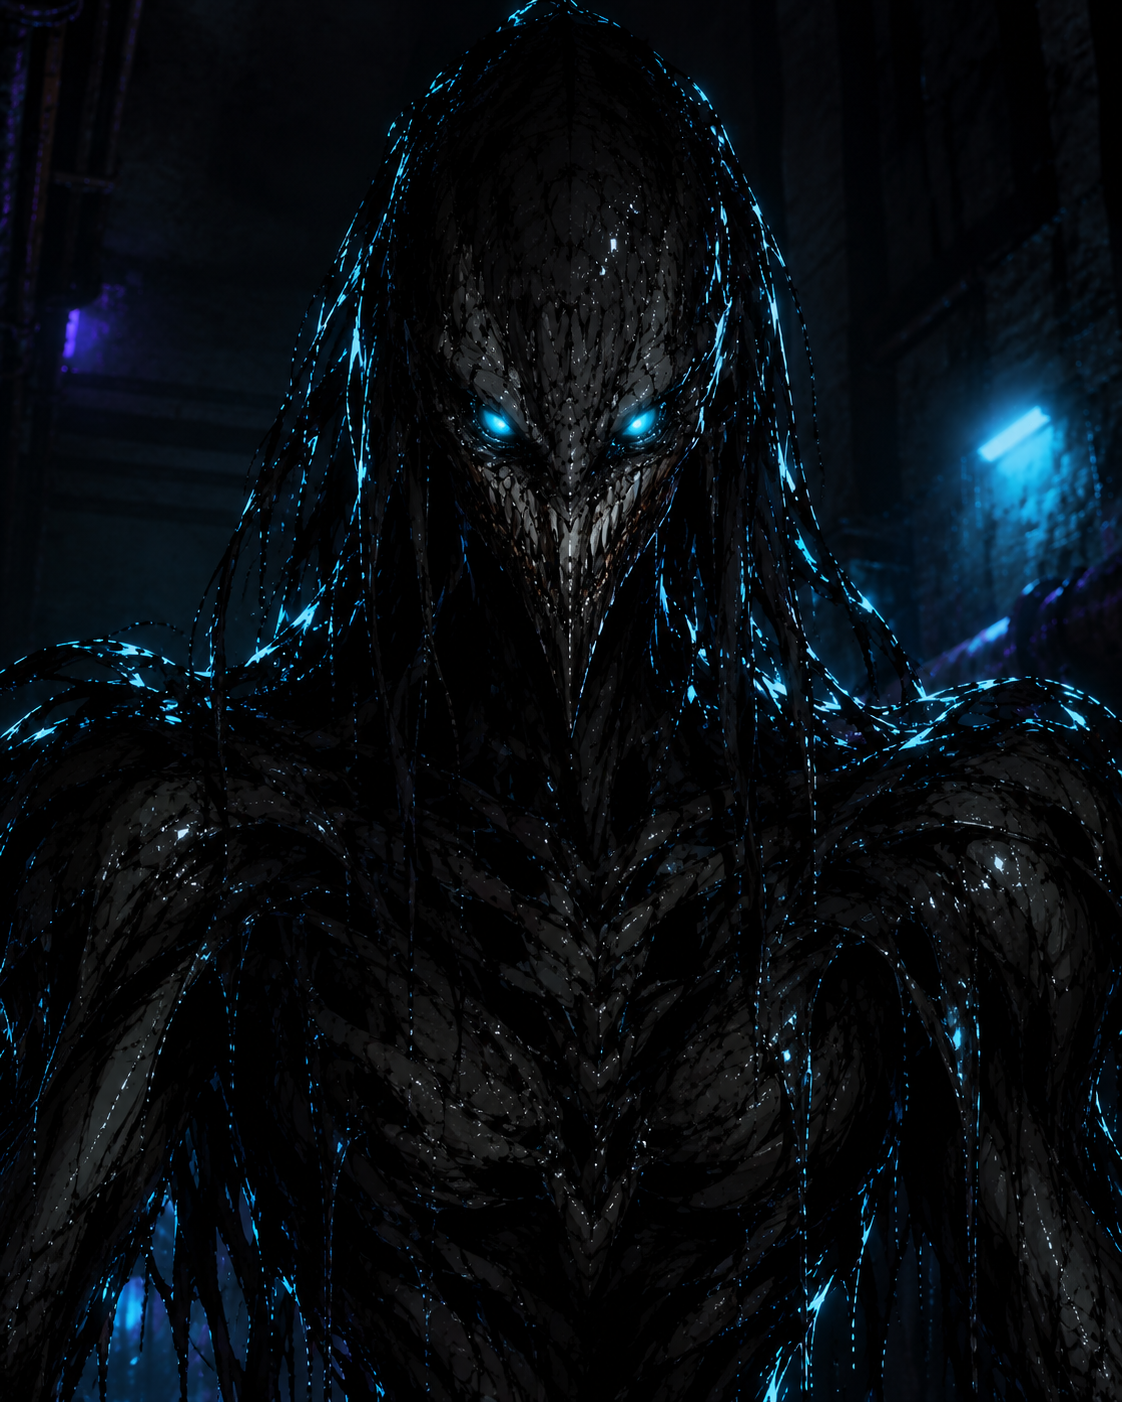
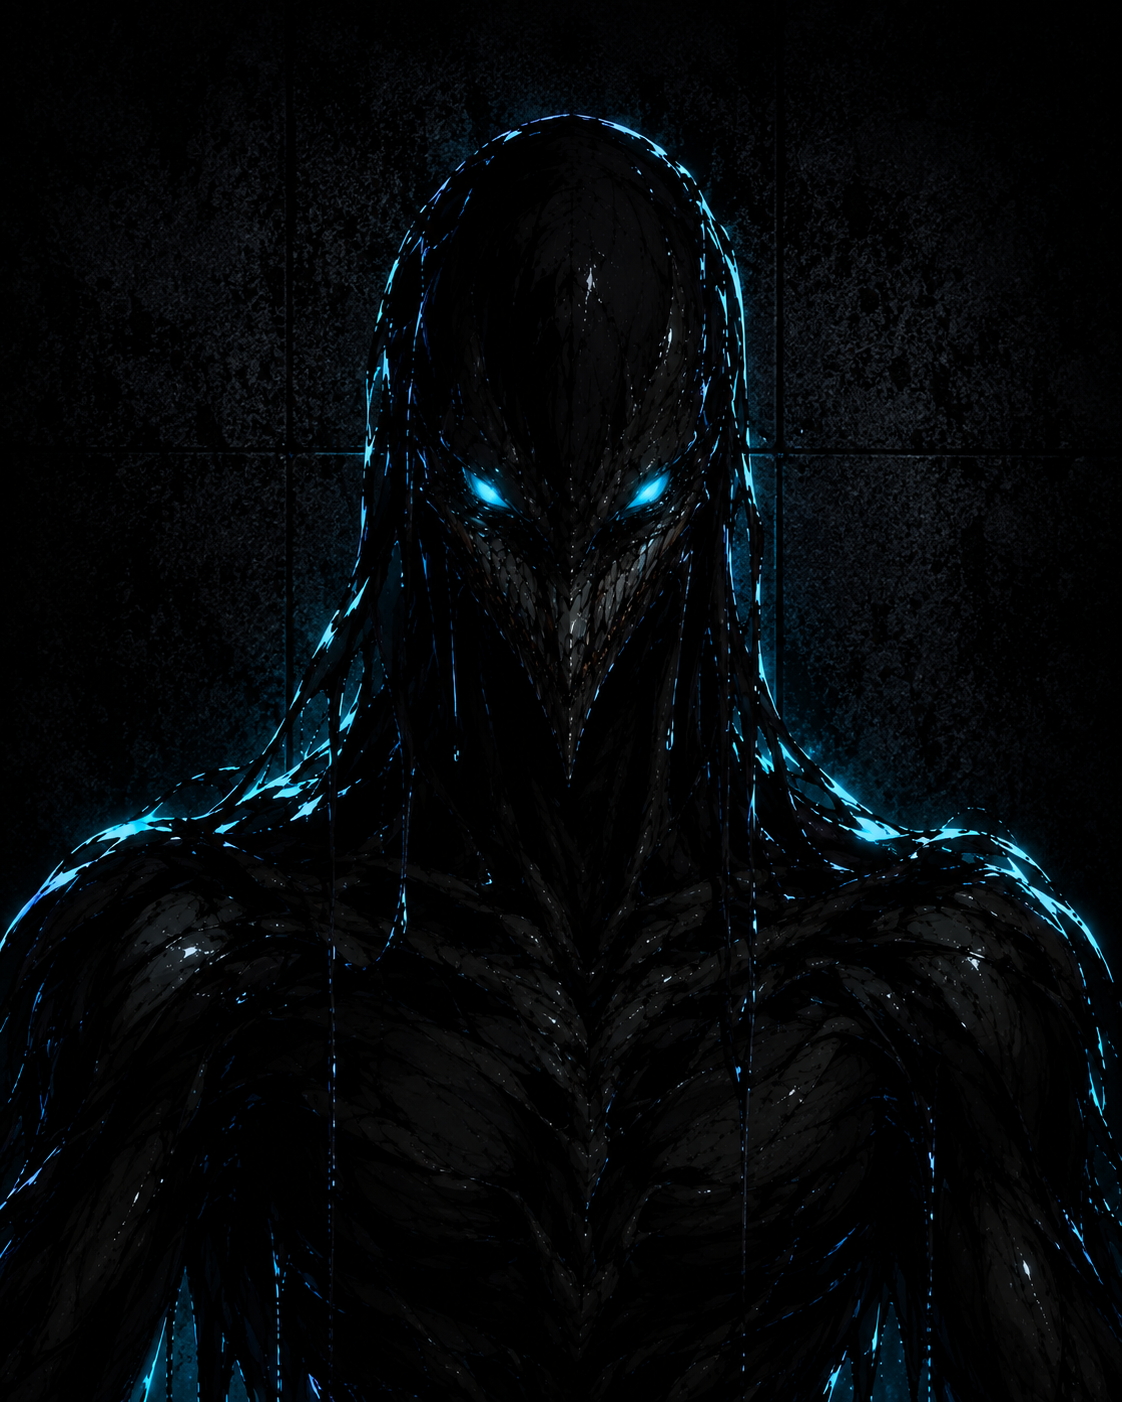
Atualização do site

diff --git a/personagens.html b/personagens.html
@@ -369,14 +369,47 @@
         </div>
       </article>
 
+      <article class="character-card">
+        <button class="character-image-trigger" type="button" aria-label="Ver ficha de Buch Garrison" data-name="Buch Garrison" data-title="Coadjuvante" data-age="26" data-height="1,82 m" data-species="Humano" data-level="S" data-aspect="-" data-ability="Força física alta e modificações em seus braços, gerando canhões ou armas." data-image="assets/images/characters/Buch-png.png" data-alt="Buch Garrison">
+          <img class="character-image" src="assets/images/characters/buchcard.png" alt="" loading="lazy">
+        </button>
+        <div class="character-info">
+          <p class="character-index">REGISTRO 007</p>
+          <h2 class="character-name">Buch Garrison</h2>
+          <p class="character-description">Mebro Elite da Broken Street, conhecido por sua lealdade e habilidades de combate.</p>
+        </div>
+      </article>
+
+       <article class="character-card">
+        <button class="character-image-trigger" type="button" aria-label="Ver ficha de Mike Pershington" data-name="Mike Pershington" data-title="Antagonista Secundário" data-age="16" data-height="1,66 m" data-species="Humano" data-level="S" data-aspect="-" data-ability="Velocidade e agilidade aprimoradas e habilidades de combate." data-image="assets/images/characters/Mike-png.png" data-alt="Mike Pershington">
+          <img class="character-image" src="assets/images/characters/mikecard.png" alt="" loading="lazy">
+        </button>
+        <div class="character-info">
+          <p class="character-index">REGISTRO 008</p>
+          <h2 class="character-name">Mike Pershington</h2>
+          <p class="character-description">Soldado Elite do Exército Galático, com poderes de velocidade jamais antes vistos.</p>
+        </div>
+      </article>
+
  <article class="character-card">
         <button class="character-image-trigger" type="button" aria-label="Ver ficha de Infectado" data-name="Infectado" data-title="Antagonista Secundário" data-age="-" data-height="2,30 m" data-species="Humano Transmutado" data-level="D/C" data-aspect="-" data-ability="Força, resistência e agilidade aprimoradas e ataque de veneno básico" data-image="assets/images/characters/Infectado-png.png" data-alt="Infectado">
           <img class="character-image" src="assets/images/characters/infectadocard.png" alt="" loading="lazy">
         </button>
         <div class="character-info">
-          <p class="character-index">REGISTRO 007</p>
+          <p class="character-index">REGISTRO 009</p>
           <h2 class="character-name">Infectado</h2>
           <p class="character-description">Um humano transmutado por Plague, transformado em uma criatura destinada a servi-lo. </p>
+        </div>
+      </article>
+
+       <article class="character-card">
+        <button class="character-image-trigger" type="button" aria-label="Ver ficha de Plague" data-name="Plague" data-title="Antagonista" data-age="???" data-height="1.90 m" data-species="Anjo Caído" data-level="SS" data-aspect="Peste" data-ability="Controle da praga e manipulação de doenças" data-image="assets/images/characters/plaguecard.png" data-alt="Plague">
+          <img class="character-image" src="assets/images/characters/plaguecard.png" alt="" loading="lazy">
+        </button>
+        <div class="character-info">
+          <p class="character-index">REGISTRO 010</p>
+          <h2 class="character-name">Plague</h2>
+          <p class="character-description">Cavaleiro do Apocalipse que representa a peste, misterioso e sútil que age pelas sombras com poderes da praga. </p>
         </div>
       </article>
 
